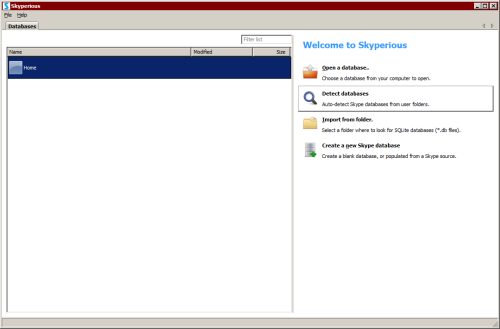
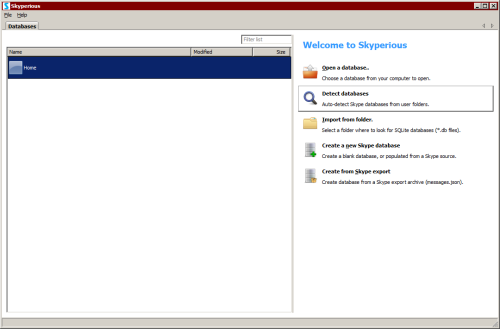
Update texts and links and screenshots to v5.7.

Changed region(s): [[0.6, 0.5167, 0.93, 0.5775]]

diff --git a/changelog.html b/changelog.html
@@ -40,14 +40,27 @@
           <a href="https://github.com/suurjaak/Skyperious">View the Project on GitHub <small>suurjaak/Skyperious</small></a>
         </p>
         <ul>
-          <li><a href="https://erki.lap.ee/downloads/Skyperious/skyperious_5.6_setup.exe">Download <strong>Setup</strong></a></li>
-          <li><a href="https://erki.lap.ee/downloads/Skyperious/skyperious_5.6_x64_setup.exe">Download <strong>64bit Setup</strong></a></li>
-          <li><a href="https://erki.lap.ee/downloads/Skyperious/skyperious_5.6-src.zip">Download <strong>Source</strong></a></li>
+          <li><a href="https://erki.lap.ee/downloads/Skyperious/skyperious_5.7_setup.exe">Download <strong>Setup</strong></a></li>
+          <li><a href="https://erki.lap.ee/downloads/Skyperious/skyperious_5.7_x64_setup.exe">Download <strong>64bit Setup</strong></a></li>
+          <li><a href="https://erki.lap.ee/downloads/Skyperious/skyperious_5.7-src.zip">Download <strong>Source</strong></a></li>
         </ul>
       </header>
 
       <section>
         <h2>Changelog</h2>
+
+        <h4>v5.7, 2023-03-09:</h4>
+        <ul>
+          <li>add separate button for creating database from Skype export archive (issue #129)</li>
+          <li>fix opening third-party license link in snaps</li>
+          <li>fix error on right-dragging in database list (issue #128)</li>
+          <li>fix startup error on Windows with no English locale available (issue #129)</li>
+          <li>improve compatibility with Python 3.10+</li>
+          <li>fix selection issues after removing databases from index page</li>
+          <li>fix saving search help text into configuration file</li>
+          <li>upgrade snap distribution to Ubuntu 22 base using wxPython 4.2.0</li>
+        </ul>
+        <br />
 
         <h4>v5.6, 2024-06-02:</h4>
         <ul>

diff --git a/downloads.html b/downloads.html
@@ -40,9 +40,9 @@
           <a href="https://github.com/suurjaak/Skyperious">View the Project on GitHub <small>suurjaak/Skyperious</small></a>
         </p>
         <ul>
-          <li><a href="https://erki.lap.ee/downloads/Skyperious/skyperious_5.6_setup.exe">Download <strong>Setup</strong></a></li>
-          <li><a href="https://erki.lap.ee/downloads/Skyperious/skyperious_5.6_x64_setup.exe">Download <strong>64bit Setup</strong></a></li>
-          <li><a href="https://erki.lap.ee/downloads/Skyperious/skyperious_5.6-src.zip">Download <strong>Source</strong></a></li>
+          <li><a href="https://erki.lap.ee/downloads/Skyperious/skyperious_5.7_setup.exe">Download <strong>Setup</strong></a></li>
+          <li><a href="https://erki.lap.ee/downloads/Skyperious/skyperious_5.7_x64_setup.exe">Download <strong>64bit Setup</strong></a></li>
+          <li><a href="https://erki.lap.ee/downloads/Skyperious/skyperious_5.7-src.zip">Download <strong>Source</strong></a></li>
         </ul>
       </header>
       <section>

diff --git a/faq.html b/faq.html
@@ -40,9 +40,9 @@
           <a href="https://github.com/suurjaak/Skyperious">View the Project on GitHub <small>suurjaak/Skyperious</small></a>
         </p>
         <ul>
-          <li><a href="https://erki.lap.ee/downloads/Skyperious/skyperious_5.6_setup.exe">Download <strong>Setup</strong></a></li>
-          <li><a href="https://erki.lap.ee/downloads/Skyperious/skyperious_5.6_x64_setup.exe">Download <strong>64bit Setup</strong></a></li>
-          <li><a href="https://erki.lap.ee/downloads/Skyperious/skyperious_5.6-src.zip">Download <strong>Source</strong></a></li>
+          <li><a href="https://erki.lap.ee/downloads/Skyperious/skyperious_5.7_setup.exe">Download <strong>Setup</strong></a></li>
+          <li><a href="https://erki.lap.ee/downloads/Skyperious/skyperious_5.7_x64_setup.exe">Download <strong>64bit Setup</strong></a></li>
+          <li><a href="https://erki.lap.ee/downloads/Skyperious/skyperious_5.7-src.zip">Download <strong>Source</strong></a></li>
         </ul>
       </header>
       <section>

diff --git a/help.html b/help.html
@@ -45,9 +45,9 @@
           <a href="https://github.com/suurjaak/Skyperious">View the Project on GitHub <small>suurjaak/Skyperious</small></a>
         </p>
         <ul>
-          <li><a href="https://erki.lap.ee/downloads/Skyperious/skyperious_5.6_setup.exe">Download <strong>Setup</strong></a></li>
-          <li><a href="https://erki.lap.ee/downloads/Skyperious/skyperious_5.6_x64_setup.exe">Download <strong>64bit Setup</strong></a></li>
-          <li><a href="https://erki.lap.ee/downloads/Skyperious/skyperious_5.6-src.zip">Download <strong>Source</strong></a></li>
+          <li><a href="https://erki.lap.ee/downloads/Skyperious/skyperious_5.7_setup.exe">Download <strong>Setup</strong></a></li>
+          <li><a href="https://erki.lap.ee/downloads/Skyperious/skyperious_5.7_x64_setup.exe">Download <strong>64bit Setup</strong></a></li>
+          <li><a href="https://erki.lap.ee/downloads/Skyperious/skyperious_5.7-src.zip">Download <strong>Source</strong></a></li>
         </ul>
       </header>
       <section>

diff --git a/install.html b/install.html
@@ -51,9 +51,9 @@
           <a href="https://github.com/suurjaak/Skyperious">View the Project on GitHub <small>suurjaak/Skyperious</small></a>
         </p>
         <ul>
-          <li><a href="https://erki.lap.ee/downloads/Skyperious/skyperious_5.6_setup.exe">Download <strong>Setup</strong></a></li>
-          <li><a href="https://erki.lap.ee/downloads/Skyperious/skyperious_5.6_x64_setup.exe">Download <strong>64bit Setup</strong></a></li>
-          <li><a href="https://erki.lap.ee/downloads/Skyperious/skyperious_5.6-src.zip">Download <strong>Source</strong></a></li>
+          <li><a href="https://erki.lap.ee/downloads/Skyperious/skyperious_5.7_setup.exe">Download <strong>Setup</strong></a></li>
+          <li><a href="https://erki.lap.ee/downloads/Skyperious/skyperious_5.7_x64_setup.exe">Download <strong>64bit Setup</strong></a></li>
+          <li><a href="https://erki.lap.ee/downloads/Skyperious/skyperious_5.7-src.zip">Download <strong>Source</strong></a></li>
         </ul>
       </header>
       <section>

diff --git a/screens.html b/screens.html
@@ -35,9 +35,9 @@
           <a href="https://github.com/suurjaak/Skyperious">View the Project on GitHub <small>suurjaak/Skyperious</small></a>
         </p>
         <ul>
-          <li><a href="https://erki.lap.ee/downloads/Skyperious/skyperious_5.6_setup.exe">Download <strong>Setup</strong></a></li>
-          <li><a href="https://erki.lap.ee/downloads/Skyperious/skyperious_5.6_x64_setup.exe">Download <strong>64bit Setup</strong></a></li>
-          <li><a href="https://erki.lap.ee/downloads/Skyperious/skyperious_5.6-src.zip">Download <strong>Source</strong></a></li>
+          <li><a href="https://erki.lap.ee/downloads/Skyperious/skyperious_5.7_setup.exe">Download <strong>Setup</strong></a></li>
+          <li><a href="https://erki.lap.ee/downloads/Skyperious/skyperious_5.7_x64_setup.exe">Download <strong>64bit Setup</strong></a></li>
+          <li><a href="https://erki.lap.ee/downloads/Skyperious/skyperious_5.7-src.zip">Download <strong>Source</strong></a></li>
         </ul>
       </header>
       <section>

diff --git a/index.html b/index.html
@@ -45,9 +45,9 @@
           <a href="https://github.com/suurjaak/Skyperious">View the Project on GitHub <small>suurjaak/Skyperious</small></a>
         </p>
         <ul>
-          <li><a href="https://erki.lap.ee/downloads/Skyperious/skyperious_5.6_setup.exe">Download <strong>Setup</strong></a></li>
-          <li><a href="https://erki.lap.ee/downloads/Skyperious/skyperious_5.6_x64_setup.exe">Download <strong>64bit Setup</strong></a></li>
-          <li><a href="https://erki.lap.ee/downloads/Skyperious/skyperious_5.6-src.zip">Download <strong>Source</strong></a></li>
+          <li><a href="https://erki.lap.ee/downloads/Skyperious/skyperious_5.7_setup.exe">Download <strong>Setup</strong></a></li>
+          <li><a href="https://erki.lap.ee/downloads/Skyperious/skyperious_5.7_x64_setup.exe">Download <strong>64bit Setup</strong></a></li>
+          <li><a href="https://erki.lap.ee/downloads/Skyperious/skyperious_5.7-src.zip">Download <strong>Source</strong></a></li>
         </ul>
       </header>
 
